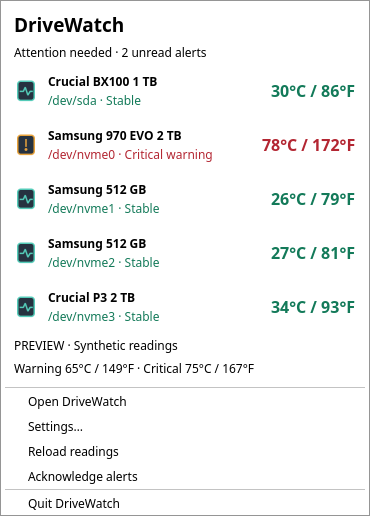
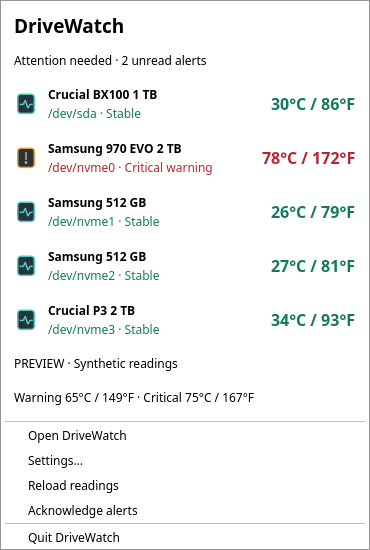
Keep tray overview visible across background refreshes

diff --git a/src/window.cpp b/src/window.cpp
@@ -252,6 +252,21 @@ Window::Window(bool demo, bool demoWarning, int initialTab)
     m_mini->setMinimumWidth(370);
     auto *miniLayout = new QVBoxLayout(m_mini);
     miniLayout->setContentsMargins(14, 12, 14, 10);
+    auto *miniTitle = new QLabel("DriveWatch");
+    auto miniFont = miniTitle->font(); miniFont.setBold(true); miniFont.setPointSize(14); miniTitle->setFont(miniFont);
+    miniLayout->addWidget(miniTitle);
+    m_miniSummary = new QLabel;
+    m_miniSummary->setTextFormat(Qt::PlainText);
+    m_miniSummary->setWordWrap(true);
+    miniLayout->addWidget(m_miniSummary);
+    m_miniCoverage = new QLabel;
+    m_miniCoverage->setTextFormat(Qt::PlainText);
+    m_miniCoverage->setWordWrap(true); m_miniCoverage->setMaximumWidth(360);
+    miniLayout->addWidget(m_miniCoverage);
+    if (m_demo) miniLayout->addWidget(new QLabel("PREVIEW · Synthetic readings"));
+    m_miniGuide = new QLabel;
+    m_miniGuide->setWordWrap(true);
+    miniLayout->addWidget(m_miniGuide);
     auto *miniAction = new QWidgetAction(menu);
     miniAction->setDefaultWidget(m_mini);
     menu->addAction(miniAction);
@@ -417,16 +432,40 @@ void Window::render() {
 
 void Window::renderMini() {
     auto *layout = qobject_cast<QVBoxLayout *>(m_mini->layout());
-    while (auto *item = layout->takeAt(0)) { delete item->widget(); delete item; }
-    auto *title = new QLabel("DriveWatch");
-    auto font = title->font(); font.setBold(true); font.setPointSize(14); title->setFont(font);
-    layout->addWidget(title);
-    auto *summary = new QLabel(m_status->text());
-    summary->setTextFormat(Qt::PlainText);
-    summary->setWordWrap(true);
-    layout->addWidget(summary);
+    // A live QWidgetAction must keep its child widgets across polling updates.
+    // Replacing the entire tree while QMenu is open can leave the hosted panel blank.
+    m_miniSummary->setText(m_status->text());
+    QSet<QString> seen;
+    int position = 2;
     for (const auto v : m_monitor.drives()) {
         auto r = v.toObject(); auto d = r.value("sample").toObject();
+        const auto id = r.value("id").toString();
+        seen.insert(id);
+        if (!m_miniRows.contains(id)) {
+            MiniDriveRow row;
+            row.widget = new QWidget(m_mini);
+            auto *line = new QHBoxLayout(row.widget);
+            line->setContentsMargins(0, 6, 0, 6); line->setSpacing(10);
+            row.icon = new QLabel;
+            line->addWidget(row.icon);
+            auto *labels = new QWidget;
+            auto *texts = new QVBoxLayout(labels); texts->setContentsMargins(0, 0, 0, 0); texts->setSpacing(2);
+            row.model = new QLabel;
+            row.model->setTextFormat(Qt::PlainText);
+            auto modelFont = row.model->font(); modelFont.setBold(true); row.model->setFont(modelFont);
+            texts->addWidget(row.model);
+            row.detail = new QLabel;
+            row.detail->setTextFormat(Qt::PlainText); texts->addWidget(row.detail);
+            line->addWidget(labels, 1);
+            row.temperature = new QLabel;
+            auto tempFont = row.temperature->font(); tempFont.setBold(true); tempFont.setPointSize(12); row.temperature->setFont(tempFont);
+            line->addWidget(row.temperature);
+            layout->insertWidget(position, row.widget);
+            row.widget->show();
+            m_miniRows.insert(id, row);
+        }
+        ++position;
+        auto &row = m_miniRows[id];
         bool unread = false;
         for (const auto e : m_monitor.events())
             if (e.toObject().value("drive_id") == r.value("id") && !e.toObject().value("acknowledged").toBool()) unread = true;
@@ -435,39 +474,29 @@ void Window::renderMini() {
         bool critical = false;
         for (const auto c : conditions) critical |= c.toObject().value("level").toString() == "critical";
         const bool disconnected = !r.value("connected").toBool();
-        auto *row = new QWidget;
-        auto *line = new QHBoxLayout(row);
-        line->setContentsMargins(0, 6, 0, 6); line->setSpacing(10);
-        auto *icon = new QLabel;
-        icon->setPixmap(statusIcon(active || unread).pixmap(24, 24));
-        line->addWidget(icon);
-        auto *labels = new QWidget;
-        auto *texts = new QVBoxLayout(labels); texts->setContentsMargins(0, 0, 0, 0); texts->setSpacing(2);
-        auto *model = new QLabel(d.value("model").toString());
-        model->setTextFormat(Qt::PlainText);
-        auto modelFont = model->font(); modelFont.setBold(true); model->setFont(modelFont);
-        texts->addWidget(model);
+        row.icon->setPixmap(statusIcon(active || unread).pixmap(24, 24));
+        row.model->setText(d.value("model").toString());
         QString state = disconnected ? "Disconnected" : (critical ? "Critical warning" : (active ? "Active warning" : (unread ? "New health change" : "Stable")));
-        auto *detail = new QLabel(d.value("device").toString() + " · " + state);
-        detail->setTextFormat(Qt::PlainText); texts->addWidget(detail);
-        colorLabel(detail, critical ? 1.0 : ((active || unread) ? 0.5 : 0.0));
-        line->addWidget(labels, 1);
-        auto *temperature = new QLabel(d.contains("error") || disconnected || !d.contains("temperature") ? "—" : temperatureText(d.value("temperature").toDouble()));
-        auto tempFont = temperature->font(); tempFont.setBold(true); tempFont.setPointSize(12); temperature->setFont(tempFont);
+        row.detail->setText(d.value("device").toString() + " · " + state);
+        colorLabel(row.detail, critical ? 1.0 : ((active || unread) ? 0.5 : 0.0));
+        row.temperature->setText(d.contains("error") || disconnected || !d.contains("temperature") ? "—" : temperatureText(d.value("temperature").toDouble()));
+        row.temperature->setPalette(qApp->palette());
         if (!d.contains("error") && !disconnected && d.contains("temperature"))
-            colorLabel(temperature, temperatureRisk(d.value("temperature").toDouble(), policy()));
-        line->addWidget(temperature);
-        layout->addWidget(row);
+            colorLabel(row.temperature, temperatureRisk(d.value("temperature").toDouble(), policy()));
     }
-    if (m_monitor.drives().isEmpty() || !m_monitor.state().value("global").toObject().isEmpty() || m_saveFailed) {
-        auto *coverage = new QLabel(m_subtitle->text());
-        coverage->setTextFormat(Qt::PlainText); coverage->setWordWrap(true); coverage->setMaximumWidth(360);
-        layout->addWidget(coverage);
+    for (auto it = m_miniRows.begin(); it != m_miniRows.end();) {
+        if (seen.contains(it.key())) { ++it; continue; }
+        it->widget->hide();
+        layout->removeWidget(it->widget);
+        it->widget->deleteLater();
+        it = m_miniRows.erase(it);
     }
-    if (m_demo) layout->addWidget(new QLabel("PREVIEW · Synthetic readings"));
-    auto *guide = new QLabel(QString("Warning %1 · Critical %2").arg(temperatureText(policy().warm), temperatureText(policy().hot)));
-    guide->setWordWrap(true); layout->addWidget(guide);
-    m_mini->adjustSize();
+    m_miniCoverage->setText(m_subtitle->text());
+    m_miniCoverage->setVisible(m_monitor.drives().isEmpty() || !m_monitor.state().value("global").toObject().isEmpty() || m_saveFailed);
+    m_miniGuide->setText(QString("Warning %1 · Critical %2").arg(temperatureText(policy().warm), temperatureText(policy().hot)));
+    m_mini->updateGeometry();
+    m_mini->update();
+    if (!m_popup->isVisible()) m_mini->adjustSize();
 }
 
 QWidget *Window::trayPopup() const { return m_popup; }

diff --git a/tests/test_window.cpp b/tests/test_window.cpp
@@ -3,6 +3,7 @@
 #include <QCheckBox>
 #include <QFile>
 #include <QLabel>
+#include <QRegularExpression>
 #include <QSettings>
 #include <QStandardPaths>
 #include <QTableWidget>
@@ -57,6 +58,24 @@ private slots:
         startup->setChecked(true);
         QVERIFY(f.open(QIODevice::ReadOnly));
         QVERIFY(f.readAll().contains("Hidden=false"));
+    }
+    void popupReadingsStayVisibleAcrossRefreshes() {
+        Window window(true, true);
+        window.poll();
+        window.showTrayPopup();
+        auto *popup = window.trayPopup();
+        const QRegularExpression temperature("^\\d+°C / \\d+°F$");
+        for (int refresh = 0; refresh < 4; ++refresh) {
+            // Leave the popup mapped through a real 10-second background timer tick too.
+            QTest::qWait(refresh == 3 ? 10500 : 30);
+            QVERIFY(popup->isVisible());
+            int visibleTemperatures = 0;
+            for (auto *label : popup->findChildren<QLabel *>())
+                if (temperature.match(label->text()).hasMatch() && label->isVisibleTo(popup))
+                    ++visibleTemperatures;
+            QCOMPARE(visibleTemperatures, 5);
+            window.poll();
+        }
     }
 };
 

diff --git a/src/window.h b/src/window.h
@@ -47,6 +47,17 @@ private:
     QCheckBox *m_notifications;
     QMenu *m_popup;
     QWidget *m_mini;
+    struct MiniDriveRow {
+        QWidget *widget;
+        QLabel *icon;
+        QLabel *model;
+        QLabel *detail;
+        QLabel *temperature;
+    };
+    QMap<QString, MiniDriveRow> m_miniRows;
+    QLabel *m_miniSummary;
+    QLabel *m_miniCoverage;
+    QLabel *m_miniGuide;
     QTabWidget *m_tabs;
     Policy policy() const;
     void render();

diff --git a/src/main.cpp b/src/main.cpp
@@ -11,7 +11,7 @@ int main(int argc, char **argv) {
     QApplication app(argc, argv);
     app.setApplicationName("DriveWatch");
     app.setOrganizationName("DriveWatch");
-    app.setApplicationVersion("0.1.0");
+    app.setApplicationVersion(DRIVEWATCH_VERSION);
     app.setDesktopFileName("io.github.drivewatch");
     app.setQuitOnLastWindowClosed(false);
     QCommandLineParser args;

diff --git a/CHANGELOG.md b/CHANGELOG.md
@@ -1,0 +1,11 @@
+# Changelog
+
+## 0.1.1
+
+- Keep the tray overview's widgets alive during background refreshes to prevent the open popup from becoming blank.
+- Add a regression check that leaves the popup open across scheduled polling and repeated manual refreshes.
+- Derive the executable version from CMake's project version.
+
+## 0.1.0
+
+- Initial Qt tray monitor, persistent health baselines, desktop alerts, systemd collector, and Debian packaging.

diff --git a/README.md b/README.md
@@ -28,7 +28,7 @@ Screenshots show synthetic data using Qt's fallback theme. Fonts and colors foll
 Download a `.deb` from [GitHub Releases](https://github.com/Distortions81/DriveWatch/releases), or build a package as below. Install it on a machine running systemd and a desktop session:
 
 ```sh
-sudo apt install ./build/drivewatch_0.1.0_amd64.deb
+sudo apt install ./build/drivewatch_0.1.1_amd64.deb
 drivewatch --show
 ```
 
